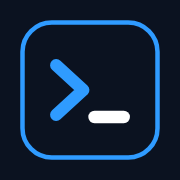
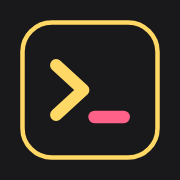
Switch to the Monokai Pro color scheme
- Monokai Pro palette (charcoal, yellow accent, green/pink/orange status)
  for all visitors; dark text on accent buttons and fills
- Logo, favicon and app icons recolored: yellow prompt and ring, pink cursor
- Header and hero glows follow the accent color; manifest and theme-color
  updated

Claude-Session: https://claude.ai/code/session_01W51G5RLnonuMMasN8wcrLu

Changed region(s): [[0.1111, 0.1111, 0.8889, 0.8889], [0.2778, 0.3056, 0.5, 0.6944], [0.4722, 0.6111, 0.7222, 0.6944]]

diff --git a/css/styles.css b/css/styles.css
@@ -1,53 +1,36 @@
-/* IT Learn & Practice — hand-written CSS (no runtime framework). */
+/* The IT Study Hall — hand-written CSS (no runtime framework). */
 
 :root {
+  /* Theme: Monokai Pro. The --azure* tokens are the site's accent color (yellow in this theme). */
   color-scheme: dark;
-  --bg: #0b1220;
-  --panel: #131c2e;
-  --panel-2: #0f1727;
-  --border: #24314a;
-  --border-strong: #34445f;
-  --text: #e6ebf3;
-  --text-2: #b3bfd1;
-  --muted: #8392a8;
-  --azure: #0078d4;
-  --azure-hover: #1a86dc;
-  --azure-soft: rgba(0, 120, 212, .16);
-  --azure-text: #5cb0f2;
-  --ok: #10b981;
-  --ok-soft: rgba(16, 185, 129, .14);
-  --ok-text: #4ade9f;
-  --bad: #f43f5e;
-  --bad-soft: rgba(244, 63, 94, .13);
-  --bad-text: #fb7f93;
-  --warn: #f59e0b;
-  --warn-soft: rgba(245, 158, 11, .15);
-  --warn-text: #fbbf4d;
-  --code-bg: #070d18;
+  --bg: #221f22;
+  --panel: #2d2a2e;
+  --panel-2: #272428;
+  --border: #403e41;
+  --border-strong: #5b595c;
+  --text: #fcfcfa;
+  --text-2: #c1c0c0;
+  --muted: #939293;
+  --azure: #ffd866;
+  --azure-hover: #ffe08a;
+  --azure-soft: rgba(255, 216, 102, .14);
+  --azure-text: #ffd866;
+  --on-accent: #2d2a2e;          /* text on accent, green and pink fills */
+  --accent-2: #ff6188;           /* secondary accent (logo cursor) */
+  --ok: #a9dc76;
+  --ok-soft: rgba(169, 220, 118, .14);
+  --ok-text: #a9dc76;
+  --bad: #ff6188;
+  --bad-soft: rgba(255, 97, 136, .13);
+  --bad-text: #ff6188;
+  --warn: #fc9867;
+  --warn-soft: rgba(252, 152, 103, .15);
+  --warn-text: #fc9867;
+  --code-bg: #19181a;
   --radius: 12px;
-  --shadow: 0 1px 2px rgba(0,0,0,.3), 0 8px 24px rgba(0,0,0,.18);
+  --shadow: 0 1px 2px rgba(0,0,0,.35), 0 8px 24px rgba(0,0,0,.22);
   --font: "Segoe UI Variable", "Segoe UI", Inter, system-ui, -apple-system, Roboto, "Helvetica Neue", Arial, sans-serif;
   --mono: ui-monospace, "Cascadia Code", "SF Mono", Menlo, Consolas, monospace;
-}
-
-@media (prefers-color-scheme: light) {
-  :root {
-    color-scheme: light;
-    --bg: #f3f6fa;
-    --panel: #ffffff;
-    --panel-2: #f7f9fc;
-    --border: #dde3ec;
-    --border-strong: #c3ccda;
-    --text: #0f1b2d;
-    --text-2: #34445c;
-    --muted: #64748b;
-    --azure-text: #005ba1;
-    --ok-text: #047857;
-    --bad-text: #be123c;
-    --warn-text: #b45309;
-    --code-bg: #0f172a;
-    --shadow: 0 1px 2px rgba(15,27,45,.06), 0 6px 20px rgba(15,27,45,.06);
-  }
 }
 
 *, *::before, *::after { box-sizing: border-box; }
@@ -78,21 +61,21 @@ code {
 .topbar {
   position: sticky; top: 0; z-index: 30; isolation: isolate;
   background:
-    radial-gradient(38rem 9rem at 18% 0%, rgba(0, 120, 212, .16), transparent 74%),
-    linear-gradient(180deg, color-mix(in srgb, var(--panel) 94%, #0c3153 6%), var(--panel));
+    radial-gradient(38rem 9rem at 18% 0%, color-mix(in srgb, var(--azure) 12%, transparent), transparent 74%),
+    linear-gradient(180deg, color-mix(in srgb, var(--panel) 96%, var(--azure) 4%), var(--panel));
   border-bottom: 1px solid color-mix(in srgb, var(--azure) 24%, var(--border));
   box-shadow: 0 8px 24px rgba(0, 0, 0, .18);
 }
 .topbar::after {
   content: ""; position: absolute; z-index: -1; inset-inline: 0; bottom: -1px; height: 2px; opacity: .72; pointer-events: none;
-  background: linear-gradient(90deg, transparent 4%, rgba(0, 120, 212, .42) 20%, var(--azure) 50%, rgba(0, 120, 212, .42) 80%, transparent 96%);
+  background: linear-gradient(90deg, transparent 4%, color-mix(in srgb, var(--azure) 42%, transparent) 20%, var(--azure) 50%, color-mix(in srgb, var(--azure) 42%, transparent) 80%, transparent 96%);
 }
 .topbar-inner { max-width: 1280px; min-height: 76px; margin: 0 auto; padding: 12px 18px; display: flex; align-items: center; justify-content: space-between; gap: 12px; }
 .brand { display: flex; align-items: center; gap: 14px; min-width: 0; }
 .brand > div { display: grid; gap: 3px; }
 .brand h1 { font-size: 17px; font-weight: 650; letter-spacing: -.015em; white-space: nowrap; }
 .brand p { color: color-mix(in srgb, var(--muted) 88%, white 12%); font-size: 12px; }
-.brand-mark { width: 36px; height: 36px; flex: none; filter: drop-shadow(0 4px 12px rgba(47, 155, 255, .35)); }
+.brand-mark { width: 36px; height: 36px; flex: none; filter: drop-shadow(0 4px 12px color-mix(in srgb, var(--azure) 30%, transparent)); }
 .topbar-actions { display: flex; align-items: center; gap: 8px; }
 .topbar .account-link { border-color: color-mix(in srgb, var(--azure) 24%, var(--border)); background: color-mix(in srgb, var(--panel-2) 78%, transparent); transition: background .15s, border-color .15s, color .15s; }
 .topbar .account-link:hover { border-color: transparent; background: var(--azure-soft); color: var(--azure-text); }
@@ -104,7 +87,7 @@ code {
   background: transparent; color: var(--muted); font-size: 13px; font-weight: 550;
 }
 .segmented button:hover { color: var(--text); }
-.segmented button[aria-selected="true"] { background: var(--azure); color: #fff; }
+.segmented button[aria-selected="true"] { background: var(--azure); color: var(--on-accent); }
 
 .timer {
   display: flex; align-items: center; gap: 6px; padding: 6px 10px; border-radius: 8px;
@@ -151,7 +134,7 @@ select {
   font-variant-numeric: tabular-nums;
 }
 .qbtn:hover { border-color: var(--border-strong); }
-.qbtn.answered { background: var(--azure); border-color: var(--azure); color: #fff; }
+.qbtn.answered { background: var(--azure); border-color: var(--azure); color: var(--on-accent); }
 .qbtn.correct { background: var(--ok-soft); border-color: var(--ok); color: var(--ok-text); }
 .qbtn.wrong { background: var(--bad-soft); border-color: var(--bad); color: var(--bad-text); }
 .qbtn.flagged::after { content: ""; position: absolute; top: 3px; right: 3px; width: 7px; height: 7px; border-radius: 50%; background: var(--warn); }
@@ -177,11 +160,11 @@ select {
 }
 .btn:disabled { opacity: .4; cursor: not-allowed; }
 .btn-sm { padding: 7px 12px; font-size: 13px; }
-.btn-primary { background: var(--azure); color: #fff; }
+.btn-primary { background: var(--azure); color: var(--on-accent); }
 .btn-primary:hover:not(:disabled) { background: var(--azure-hover); }
-.btn-success { background: #059669; color: #fff; }
+.btn-success { background: var(--ok); color: var(--on-accent); }
 .btn-success:hover:not(:disabled) { background: #10a374; }
-.btn-warn { background: #d97706; color: #fff; }
+.btn-warn { background: var(--warn); color: var(--on-accent); }
 .btn-warn:hover:not(:disabled) { background: #e88a12; }
 .btn-ghost { background: var(--panel-2); border-color: var(--border); color: var(--text-2); }
 .btn-ghost:hover:not(:disabled) { border-color: var(--border-strong); color: var(--text); }
@@ -220,12 +203,12 @@ select {
 .option .onote { display: block; margin-top: 6px; font-size: 13px; color: var(--text-2); }
 .option .ostatus { flex: none; margin-top: 3px; }
 .option.selected { border-color: var(--azure); background: var(--azure-soft); }
-.option.selected .letter { background: var(--azure); border-color: var(--azure); color: #fff; }
+.option.selected .letter { background: var(--azure); border-color: var(--azure); color: var(--on-accent); }
 .option.is-correct { border-color: var(--ok); background: var(--ok-soft); }
-.option.is-correct .letter { background: var(--ok); border-color: var(--ok); color: #fff; }
+.option.is-correct .letter { background: var(--ok); border-color: var(--ok); color: var(--on-accent); }
 .option.is-correct .ostatus { color: var(--ok-text); }
 .option.is-wrong { border-color: var(--bad); background: var(--bad-soft); }
-.option.is-wrong .letter { background: var(--bad); border-color: var(--bad); color: #fff; }
+.option.is-wrong .letter { background: var(--bad); border-color: var(--bad); color: var(--on-accent); }
 .option.is-wrong .ostatus { color: var(--bad-text); }
 .option.dim { opacity: .75; }
 
@@ -258,8 +241,8 @@ kbd { font: 11px var(--mono); padding: 1px 5px; border-radius: 4px; border: 1px 
 .score-banner.pass { background: var(--ok-soft); border-color: var(--ok); }
 .score-banner.fail { background: var(--bad-soft); border-color: var(--bad); }
 .status-pill { font-size: 12px; font-weight: 750; letter-spacing: .08em; padding: 4px 12px; border-radius: 999px; }
-.pass .status-pill { background: var(--ok); color: #fff; }
-.fail .status-pill { background: var(--bad); color: #fff; }
+.pass .status-pill { background: var(--ok); color: var(--on-accent); }
+.fail .status-pill { background: var(--bad); color: var(--on-accent); }
 .score-banner h2 { font-size: 34px; font-weight: 800; font-variant-numeric: tabular-nums; }
 .section-title { font-size: 16px; font-weight: 650; padding-bottom: 8px; border-bottom: 1px solid var(--border); }
 
@@ -356,14 +339,6 @@ body.home .exams-link { display: none; }
 [data-vendor="amazon-web-services"] { --v: #ff9900; --v-soft: rgba(255,153,0,.15);  --v-text: #ffb547; }
 [data-vendor="google-cloud"]        { --v: #34a853; --v-soft: rgba(52,168,83,.16);  --v-text: #5fd17f; }
 [data-vendor="salesforce"]          { --v: #7c6cf0; --v-soft: rgba(124,108,240,.16); --v-text: #a99ff7; }
-@media (prefers-color-scheme: light) {
-  [data-vendor="microsoft"]           { --v-soft: rgba(0,120,212,.10); --v-text: #005ba1; }
-  [data-vendor="comptia"]             { --v-soft: rgba(224,53,63,.10); --v-text: #b4212a; }
-  [data-vendor="cisco"]               { --v-soft: rgba(0,165,168,.12); --v-text: #00787a; }
-  [data-vendor="amazon-web-services"] { --v-soft: rgba(255,153,0,.14); --v-text: #a35c00; }
-  [data-vendor="google-cloud"]        { --v-soft: rgba(52,168,83,.12); --v-text: #1e7b3a; }
-  [data-vendor="salesforce"]          { --v-soft: rgba(124,108,240,.12); --v-text: #4f3fc4; }
-}
 @media (max-width: 600px) { .exams-link { padding: 7px 10px; } }
 
 /* ── Sign-in & invites ──────────────────────────────── */
@@ -641,15 +616,14 @@ body.account-page .exams-link, body.subpage .exams-link { display: inline-flex; 
 }
 
 /* Unified learning and practice home */
-.home-hero { display: grid; grid-template-columns: minmax(0, 1.2fr) minmax(260px, .8fr); gap: 28px; align-items: center; padding: clamp(24px, 5vw, 54px); border: 1px solid var(--border); border-radius: 20px; background: radial-gradient(80% 150% at 100% 0%, rgba(0,120,212,.2), transparent 62%), linear-gradient(135deg, var(--panel), var(--panel-2)); box-shadow: var(--shadow); }
+.home-hero { display: grid; grid-template-columns: minmax(0, 1.2fr) minmax(260px, .8fr); gap: 28px; align-items: center; padding: clamp(24px, 5vw, 54px); border: 1px solid var(--border); border-radius: 20px; background: radial-gradient(80% 150% at 100% 0%, color-mix(in srgb, var(--azure) 16%, transparent), transparent 62%), linear-gradient(135deg, var(--panel), var(--panel-2)); box-shadow: var(--shadow); }
 .home-hero-copy { max-width: 680px; }
 .home-hero-copy h2 { margin: 13px 0 12px; font-size: clamp(34px, 5vw, 54px); line-height: 1.06; letter-spacing: -.04em; }
 .home-hero-copy h2 span { color: var(--azure-text); }
 .home-hero-copy > p { max-width: 56ch; color: var(--text-2); font-size: 16px; line-height: 1.65; }
 .home-hero-actions { display: flex; gap: 10px; flex-wrap: wrap; margin-top: 24px; }
 .home-hero-steps { display: grid; gap: 10px; }
-.home-hero-steps > div { display: flex; gap: 13px; align-items: center; padding: 13px; border: 1px solid var(--border); border-radius: 12px; background: rgba(11,18,32,.54); }
-@media (prefers-color-scheme: light) { .home-hero-steps > div { background: rgba(255,255,255,.72); } }
+.home-hero-steps > div { display: flex; gap: 13px; align-items: center; padding: 13px; border: 1px solid var(--border); border-radius: 12px; background: color-mix(in srgb, var(--panel-2) 70%, transparent); }
 .hero-step-icon { width: 38px; height: 38px; display: grid; place-items: center; flex: none; border-radius: 11px; background: var(--azure-soft); color: var(--azure-text); font: 700 12px var(--mono); }
 .home-hero-steps > div > span:last-child { display: grid; gap: 3px; }
 .home-hero-steps b { font-size: 14px; }

diff --git a/index.html b/index.html
@@ -5,10 +5,10 @@
   <meta name="viewport" content="width=device-width, initial-scale=1">
   <title>The IT Study Hall</title>
   <meta name="description" content="Learn IT certification topics with study guides and video lessons, then build confidence with practice questions and timed exams.">
-  <meta name="theme-color" content="#0f172a">
-  <link rel="icon" href="/favicon.svg?v=2" type="image/svg+xml">
+  <meta name="theme-color" content="#2d2a2e">
+  <link rel="icon" href="/favicon.svg?v=3" type="image/svg+xml">
   <link rel="manifest" href="/manifest.webmanifest">
-  <link rel="apple-touch-icon" href="/icons/apple-touch-icon.png?v=2">
+  <link rel="apple-touch-icon" href="/icons/apple-touch-icon.png?v=3">
   <meta name="apple-mobile-web-app-capable" content="yes">
   <link rel="preconnect" href="https://rbywonfaduuhsnzxrmgr.supabase.co" crossorigin>
   <link rel="stylesheet" href="/css/styles.css">
@@ -43,7 +43,7 @@
   <header class="topbar">
     <div class="topbar-inner">
       <div class="brand">
-        <svg class="brand-mark" viewBox="0 0 64 64" aria-hidden="true"><rect width="64" height="64" rx="15" fill="#0b1220"/><rect x="2" y="2" width="60" height="60" rx="13" fill="none" stroke="#2f9bff" stroke-width="2"/><path d="M17 21 L29 32 L17 43" fill="none" stroke="#2f9bff" stroke-width="5.5" stroke-linecap="round" stroke-linejoin="round"/><path d="M34 44 H47" stroke="#ffffff" stroke-width="5.5" stroke-linecap="round"/></svg>
+        <svg class="brand-mark" viewBox="0 0 64 64" aria-hidden="true"><rect width="64" height="64" rx="15" fill="#19181a"/><rect x="2" y="2" width="60" height="60" rx="13" fill="none" stroke="#ffd866" stroke-width="2"/><path d="M17 21 L29 32 L17 43" fill="none" stroke="#ffd866" stroke-width="5.5" stroke-linecap="round" stroke-linejoin="round"/><path d="M34 44 H47" stroke="#ff6188" stroke-width="5.5" stroke-linecap="round"/></svg>
         <div>
           <h1><a href="/" class="brand-link" id="brand-title" title="The IT Study Hall home">The IT Study Hall</a></h1>
           <p class="muted small" id="brand-sub">Learn the skills. Practice with purpose.</p>

diff --git a/privacy.html b/privacy.html
@@ -5,14 +5,14 @@
   <meta name="viewport" content="width=device-width, initial-scale=1">
   <title>Privacy Policy · The IT Study Hall</title>
   <meta name="description" content="How The IT Study Hall handles your data.">
-  <link rel="icon" href="/favicon.svg?v=2" type="image/svg+xml">
+  <link rel="icon" href="/favicon.svg?v=3" type="image/svg+xml">
   <link rel="stylesheet" href="/css/styles.css">
 </head>
 <body class="home">
   <header class="topbar">
     <div class="topbar-inner">
       <div class="brand">
-        <svg class="brand-mark" viewBox="0 0 64 64" aria-hidden="true"><rect width="64" height="64" rx="15" fill="#0b1220"/><rect x="2" y="2" width="60" height="60" rx="13" fill="none" stroke="#2f9bff" stroke-width="2"/><path d="M17 21 L29 32 L17 43" fill="none" stroke="#2f9bff" stroke-width="5.5" stroke-linecap="round" stroke-linejoin="round"/><path d="M34 44 H47" stroke="#ffffff" stroke-width="5.5" stroke-linecap="round"/></svg>
+        <svg class="brand-mark" viewBox="0 0 64 64" aria-hidden="true"><rect width="64" height="64" rx="15" fill="#19181a"/><rect x="2" y="2" width="60" height="60" rx="13" fill="none" stroke="#ffd866" stroke-width="2"/><path d="M17 21 L29 32 L17 43" fill="none" stroke="#ffd866" stroke-width="5.5" stroke-linecap="round" stroke-linejoin="round"/><path d="M34 44 H47" stroke="#ff6188" stroke-width="5.5" stroke-linecap="round"/></svg>
         <div><h1><a href="/" class="brand-link">The IT Study Hall</a></h1></div>
       </div>
     </div>

diff --git a/sw.js b/sw.js
@@ -1,6 +1,6 @@
 // Offline support: network-first for everything (so updates show up immediately),
 // falling back to the cached copy when there's no connection.
-const CACHE = 'examsim-v32';
+const CACHE = 'examsim-v33';
 // Exam files are cached the first time each exam is opened.
 const CORE = ['/', '/css/styles.css', '/js/app.js', '/js/auth.js', '/js/learn.js', '/exams/index.json',
   '/favicon.svg', '/manifest.webmanifest', '/icons/icon-192.png'];
